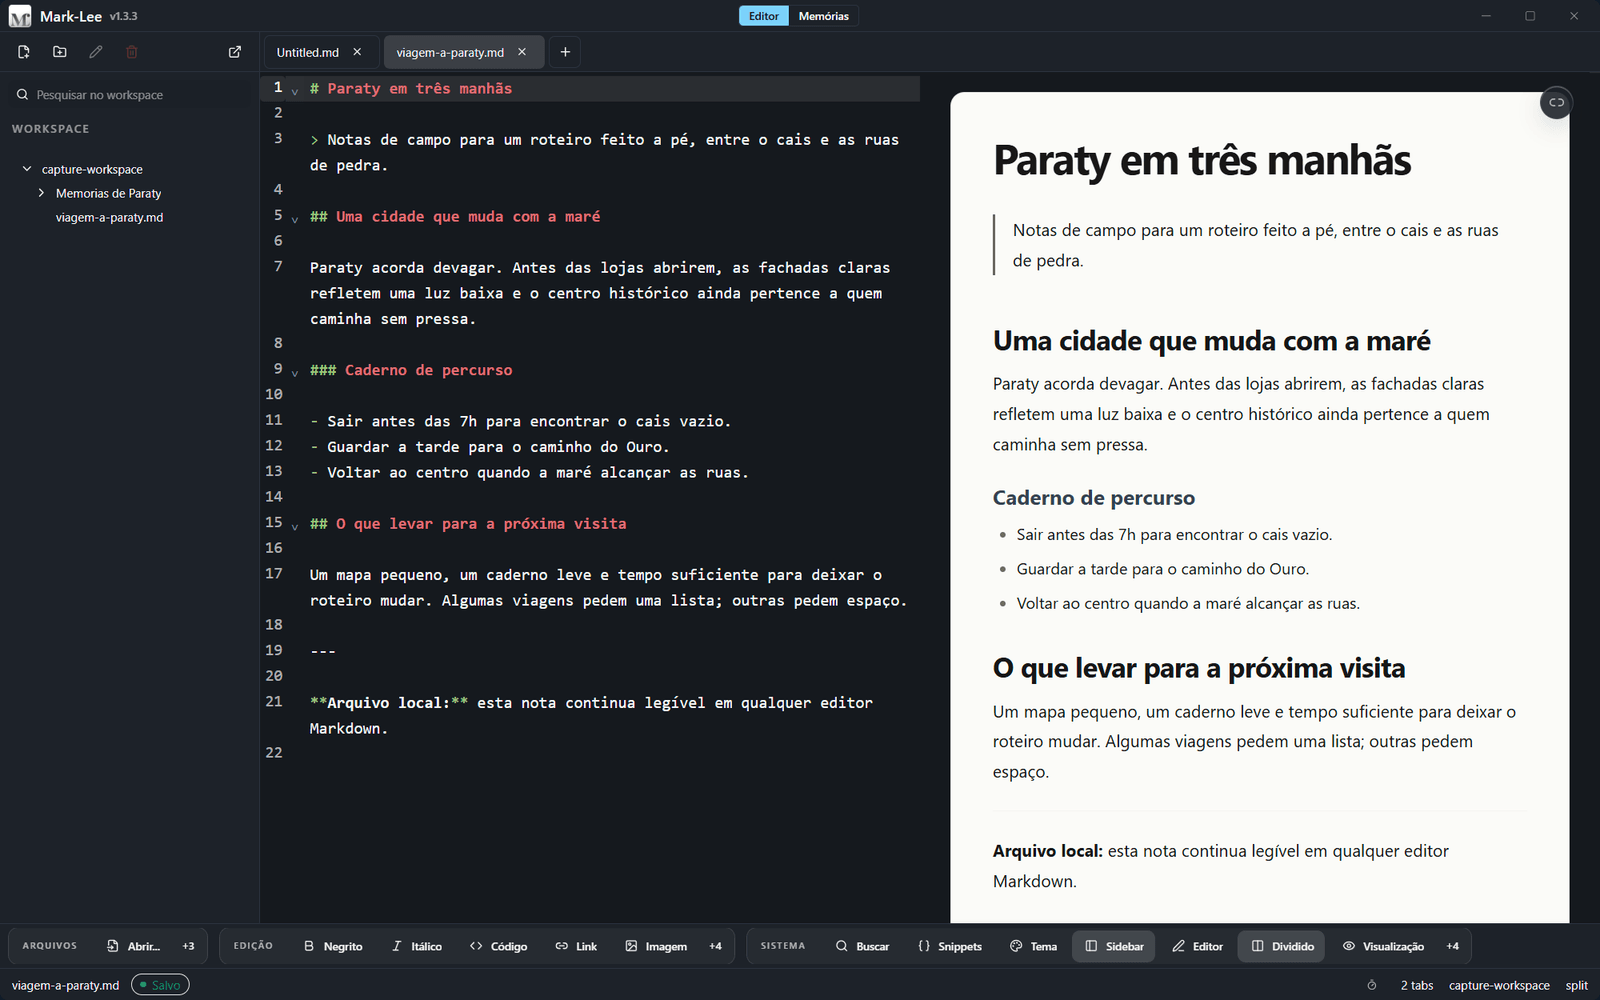
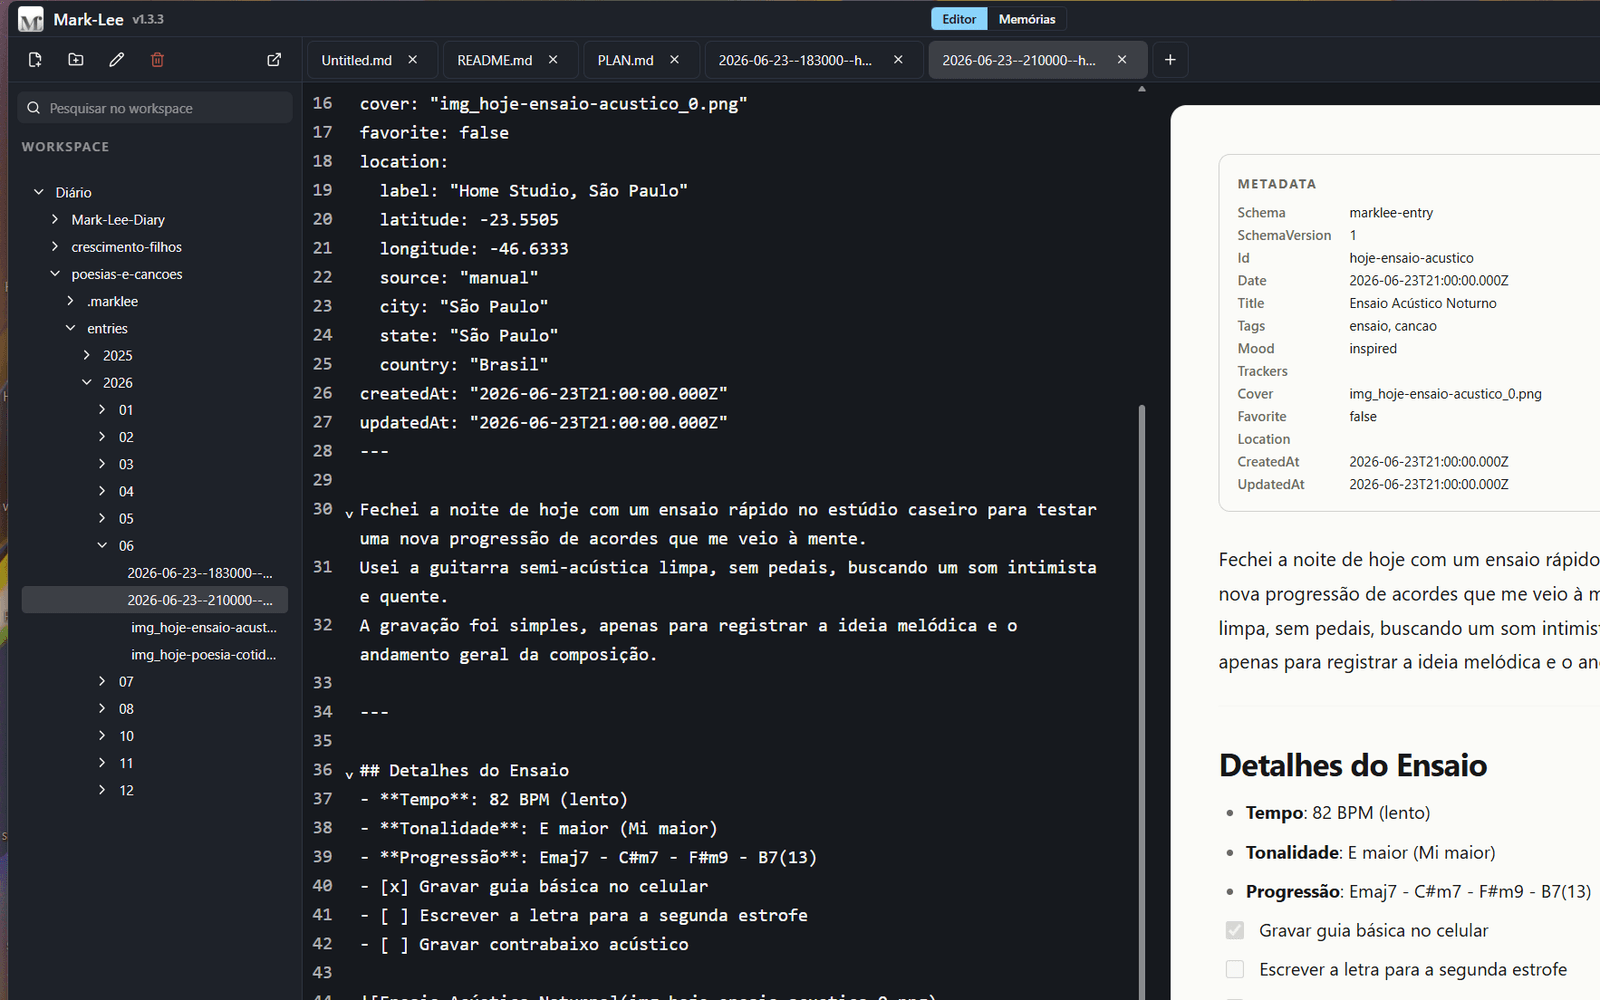
feat(site): capturas reais variadas (5 telas, 3+ temas) e carrossel ampliado
Substitui a captura única reutilizada por um conjunto de telas reais do
app, cada uma num registro diferente e com temas distintos:

- editor.png: editor dividido (tema escuro)
- memories-reading.png: leitura (tema claro)
- memories-reading-dark.png: leitura (tema escuro quente)
- memories-explore.png: galeria de fotos (tema golden)
- memories-places.png: mapa de Lugares com marcadores

Hero passa a rodar 4 telas (editor, leitura, galeria, mapa); o mosaico
de Memórias usa leitura escura + galeria, reduzindo repetição. Sem barra
de tarefas do SO nas capturas; legenda de versão/data removida.

diff --git a/apps/site/src/productVisuals.ts b/apps/site/src/productVisuals.ts
@@ -1,6 +1,11 @@
 import { Locale, ProductVisual } from "@/i18n";
 
-export type ProductVisualKey = "editor" | "memoriesReading" | "memoriesExplore";
+export type ProductVisualKey =
+  | "editor"
+  | "memoriesReading"
+  | "memoriesReadingDark"
+  | "memoriesExplore"
+  | "memoriesPlaces";
 
 const asset = (fileName: string) => `${import.meta.env.BASE_URL}assets/product/${fileName}`;
 
@@ -14,8 +19,8 @@ export const PRODUCT_VISUALS: Record<ProductVisualKey, ProductVisual> = {
       "en-US": "Mark-Lee Editor with a file tree, Markdown, and side-by-side preview.",
       "es-ES": "Editor de Mark-Lee con árbol de archivos, Markdown y vista previa lado a lado.",
     },
-    focalPoint: "50% 48%",
-    capturedAt: "2026-06-29",
+    focalPoint: "50% 50%",
+    capturedAt: "2026-06-30",
     appVersion: "1.3.3",
   },
   memoriesReading: {
@@ -23,12 +28,25 @@ export const PRODUCT_VISUALS: Record<ProductVisualKey, ProductVisual> = {
     width: 1600,
     height: 1000,
     alt: {
-      "pt-BR": "Memórias no Mark-Lee em modo de leitura editorial, com caderno e registro abertos.",
-      "en-US": "Mark-Lee Memories in editorial reading mode with an open notebook and entry.",
-      "es-ES": "Memorias de Mark-Lee en modo de lectura editorial, con un cuaderno y registro abiertos.",
+      "pt-BR": "Memórias no Mark-Lee em modo de leitura, com caderno e registro abertos em tema claro.",
+      "en-US": "Mark-Lee Memories in reading mode, with a notebook and entry open in a light theme.",
+      "es-ES": "Memorias de Mark-Lee en modo de lectura, con un cuaderno y registro abiertos en tema claro.",
     },
-    focalPoint: "58% 50%",
-    capturedAt: "2026-06-29",
+    focalPoint: "50% 50%",
+    capturedAt: "2026-06-30",
+    appVersion: "1.3.3",
+  },
+  memoriesReadingDark: {
+    source: asset("memories-reading-dark.png"),
+    width: 1600,
+    height: 1000,
+    alt: {
+      "pt-BR": "Memórias no Mark-Lee lendo um registro com foto em tema escuro.",
+      "en-US": "Mark-Lee Memories reading an entry with a photo in a dark theme.",
+      "es-ES": "Memorias de Mark-Lee leyendo un registro con foto en tema oscuro.",
+    },
+    focalPoint: "50% 50%",
+    capturedAt: "2026-06-30",
     appVersion: "1.3.3",
   },
   memoriesExplore: {
@@ -36,12 +54,25 @@ export const PRODUCT_VISUALS: Record<ProductVisualKey, ProductVisual> = {
     width: 1600,
     height: 1000,
     alt: {
-      "pt-BR": "Exploração de Memórias no Mark-Lee com calendário, galeria, lugares e Pins.",
-      "en-US": "Mark-Lee Memories exploration with calendar, gallery, places, and Pins.",
-      "es-ES": "Exploración de Memorias en Mark-Lee con calendario, galería, lugares y Pins.",
+      "pt-BR": "Galeria de Memórias no Mark-Lee com fotos organizadas por registro.",
+      "en-US": "Mark-Lee Memories gallery with photos organized by entry.",
+      "es-ES": "Galería de Memorias de Mark-Lee con fotos organizadas por registro.",
     },
     focalPoint: "50% 50%",
-    capturedAt: "2026-06-29",
+    capturedAt: "2026-06-30",
+    appVersion: "1.3.3",
+  },
+  memoriesPlaces: {
+    source: asset("memories-places.png"),
+    width: 1600,
+    height: 1000,
+    alt: {
+      "pt-BR": "Mapa de Lugares no Mark-Lee com registros marcados por localização.",
+      "en-US": "Mark-Lee Places map with entries pinned by location.",
+      "es-ES": "Mapa de Lugares de Mark-Lee con registros marcados por ubicación.",
+    },
+    focalPoint: "50% 50%",
+    capturedAt: "2026-06-30",
     appVersion: "1.3.3",
   },
 };

diff --git a/apps/site/src/pages/Produto.tsx b/apps/site/src/pages/Produto.tsx
@@ -33,7 +33,7 @@ const Produto = ({ locale }: ProdutoProps) => {
             <p className="home-note">{copy.hero.note}</p>
           </div>
           <ProductCarousel
-            visuals={["editor", "memoriesReading", "memoriesExplore"]}
+            visuals={["editor", "memoriesReading", "memoriesExplore", "memoriesPlaces"]}
             locale={locale}
             className="home-hero__visual"
           />
@@ -91,7 +91,7 @@ const Produto = ({ locale }: ProdutoProps) => {
           />
           <div className="memories-mosaic">
             <ProductFrame
-              visual="memoriesReading"
+              visual="memoriesReadingDark"
               locale={locale}
               className="product-frame--paper memories-mosaic__primary"
             />

diff --git a/apps/site/src/i18n/site-contract.test.ts b/apps/site/src/i18n/site-contract.test.ts
@@ -53,7 +53,9 @@ describe("promo-site contract", () => {
     const assets = [
       ["editor.png", 450_000],
       ["memories-reading.png", 450_000],
+      ["memories-reading-dark.png", 450_000],
       ["memories-explore.png", 450_000],
+      ["memories-places.png", 450_000],
       ["og-mark-lee.png", 650_000],
     ] as const;
 